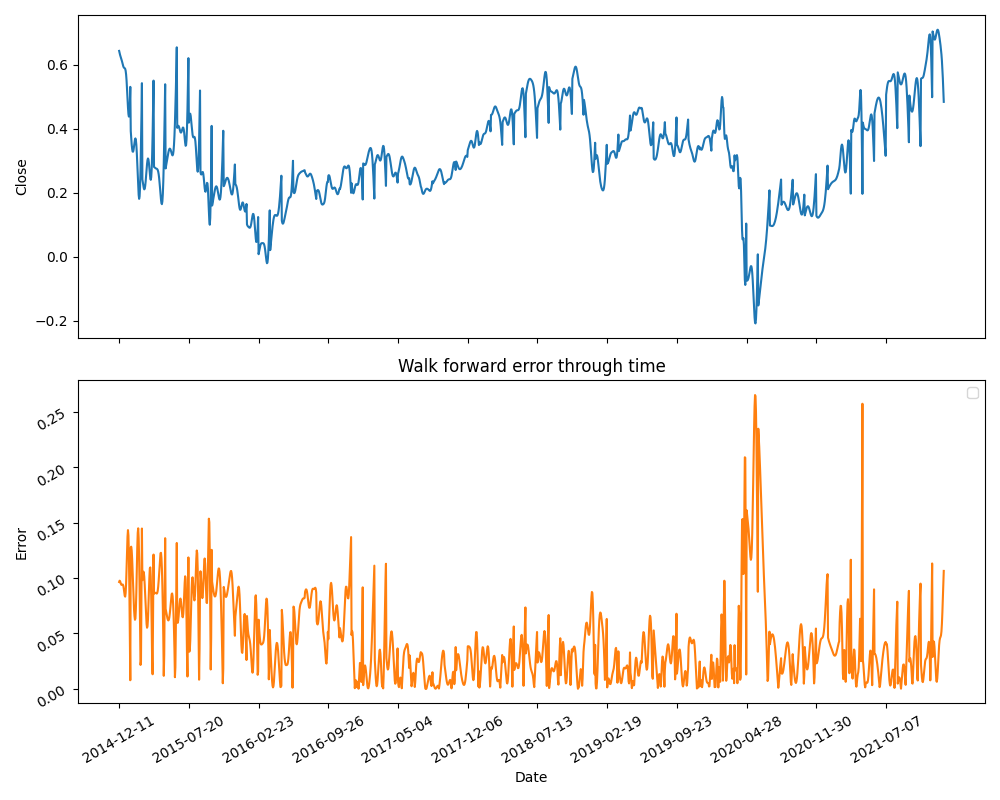
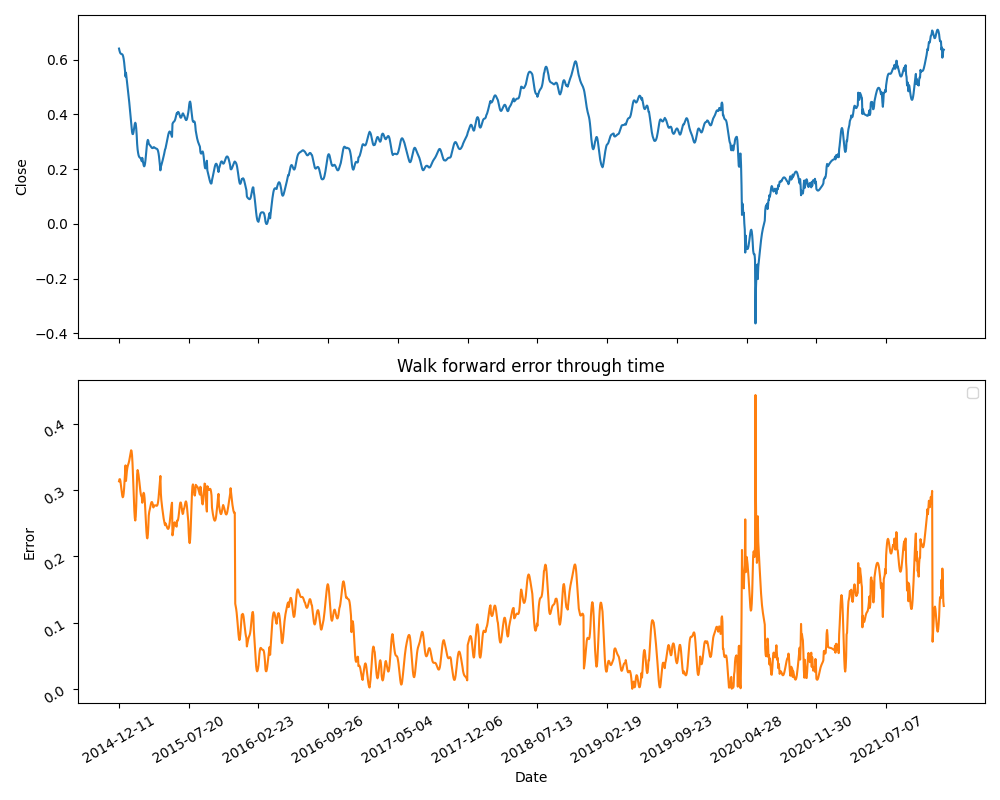
pushing stuff incase notebooks break, eish on the hp's ram

diff --git a/spectral_denoising.py b/spectral_denoising.py
@@ -70,8 +70,8 @@ def find_threshold(signal):
     # test if this component is white noise
     white_noise_1_0,percentage = test_for_white_noise(inverse_transform_noise)
 
-    if white_noise_1_0 == True:
-            print(f'Threshold found! Threshold: {threshold} Test: {percentage}') 
+    # if white_noise_1_0 == True:
+            # print(f'Threshold found! Threshold: {threshold} Test: {percentage}') 
 
     # while thresholding has not removed a purely white noise component
     while white_noise_1_0 != True:
@@ -84,8 +84,8 @@ def find_threshold(signal):
         # is this removed component white noise?
         white_noise_1_0, percentage = test_for_white_noise(inverse_transform_noise)
 
-        if white_noise_1_0 == True:
-            print(f'Threshold found! Threshold: {threshold} Test: {percentage}')
+        # if white_noise_1_0 == True:
+            # print(f'Threshold found! Threshold: {threshold} Test: {percentage}')
 
     # some white noise evidence
     fig,ax = plt.subplots(1,2,figsize=(10,5))
@@ -146,7 +146,13 @@ def automatic_fourier_denoising(signal, df, split):
     plt.tight_layout()
 
     # return denoised signal
-    return np.real(inverse_transform_filtered)
+    inverse_transform_filtered = np.real(inverse_transform_filtered)
+
+    # remove start and end spikes
+    inverse_transform_filtered[0:10] = signal[0:10]
+    inverse_transform_filtered[-10:] = signal[-10:]
+
+    return inverse_transform_filtered
 
 def automatic_fourier_denoising_wf(signal):
     """
@@ -171,4 +177,10 @@ def automatic_fourier_denoising_wf(signal):
     inverse_transform_filtered = ifft(fft_filtered_denoised)
 
     # return denoised signal
-    return np.real(inverse_transform_filtered)
+    inverse_transform_filtered = np.real(inverse_transform_filtered)
+
+    # remove start and end spikes
+    inverse_transform_filtered[0:10] = signal[0:10]
+    inverse_transform_filtered[-10:] = signal[-10:]
+
+    return inverse_transform_filtered

diff --git a/one_dimensional_time_series_forecasting.py b/one_dimensional_time_series_forecasting.py
@@ -238,9 +238,11 @@ class time_series_prediction():
                     if only_training == True:
                         # feature engineer
                         walk_dataset = transformer(walk_dataset[0:train_len])
+
                     else:
                         # feature engineer
                         walk_dataset = transformer(walk_dataset)
+
 
                 # series to supervised ml task
                 training_data, testing_data = self.series_to_supervised(walk_dataset)
